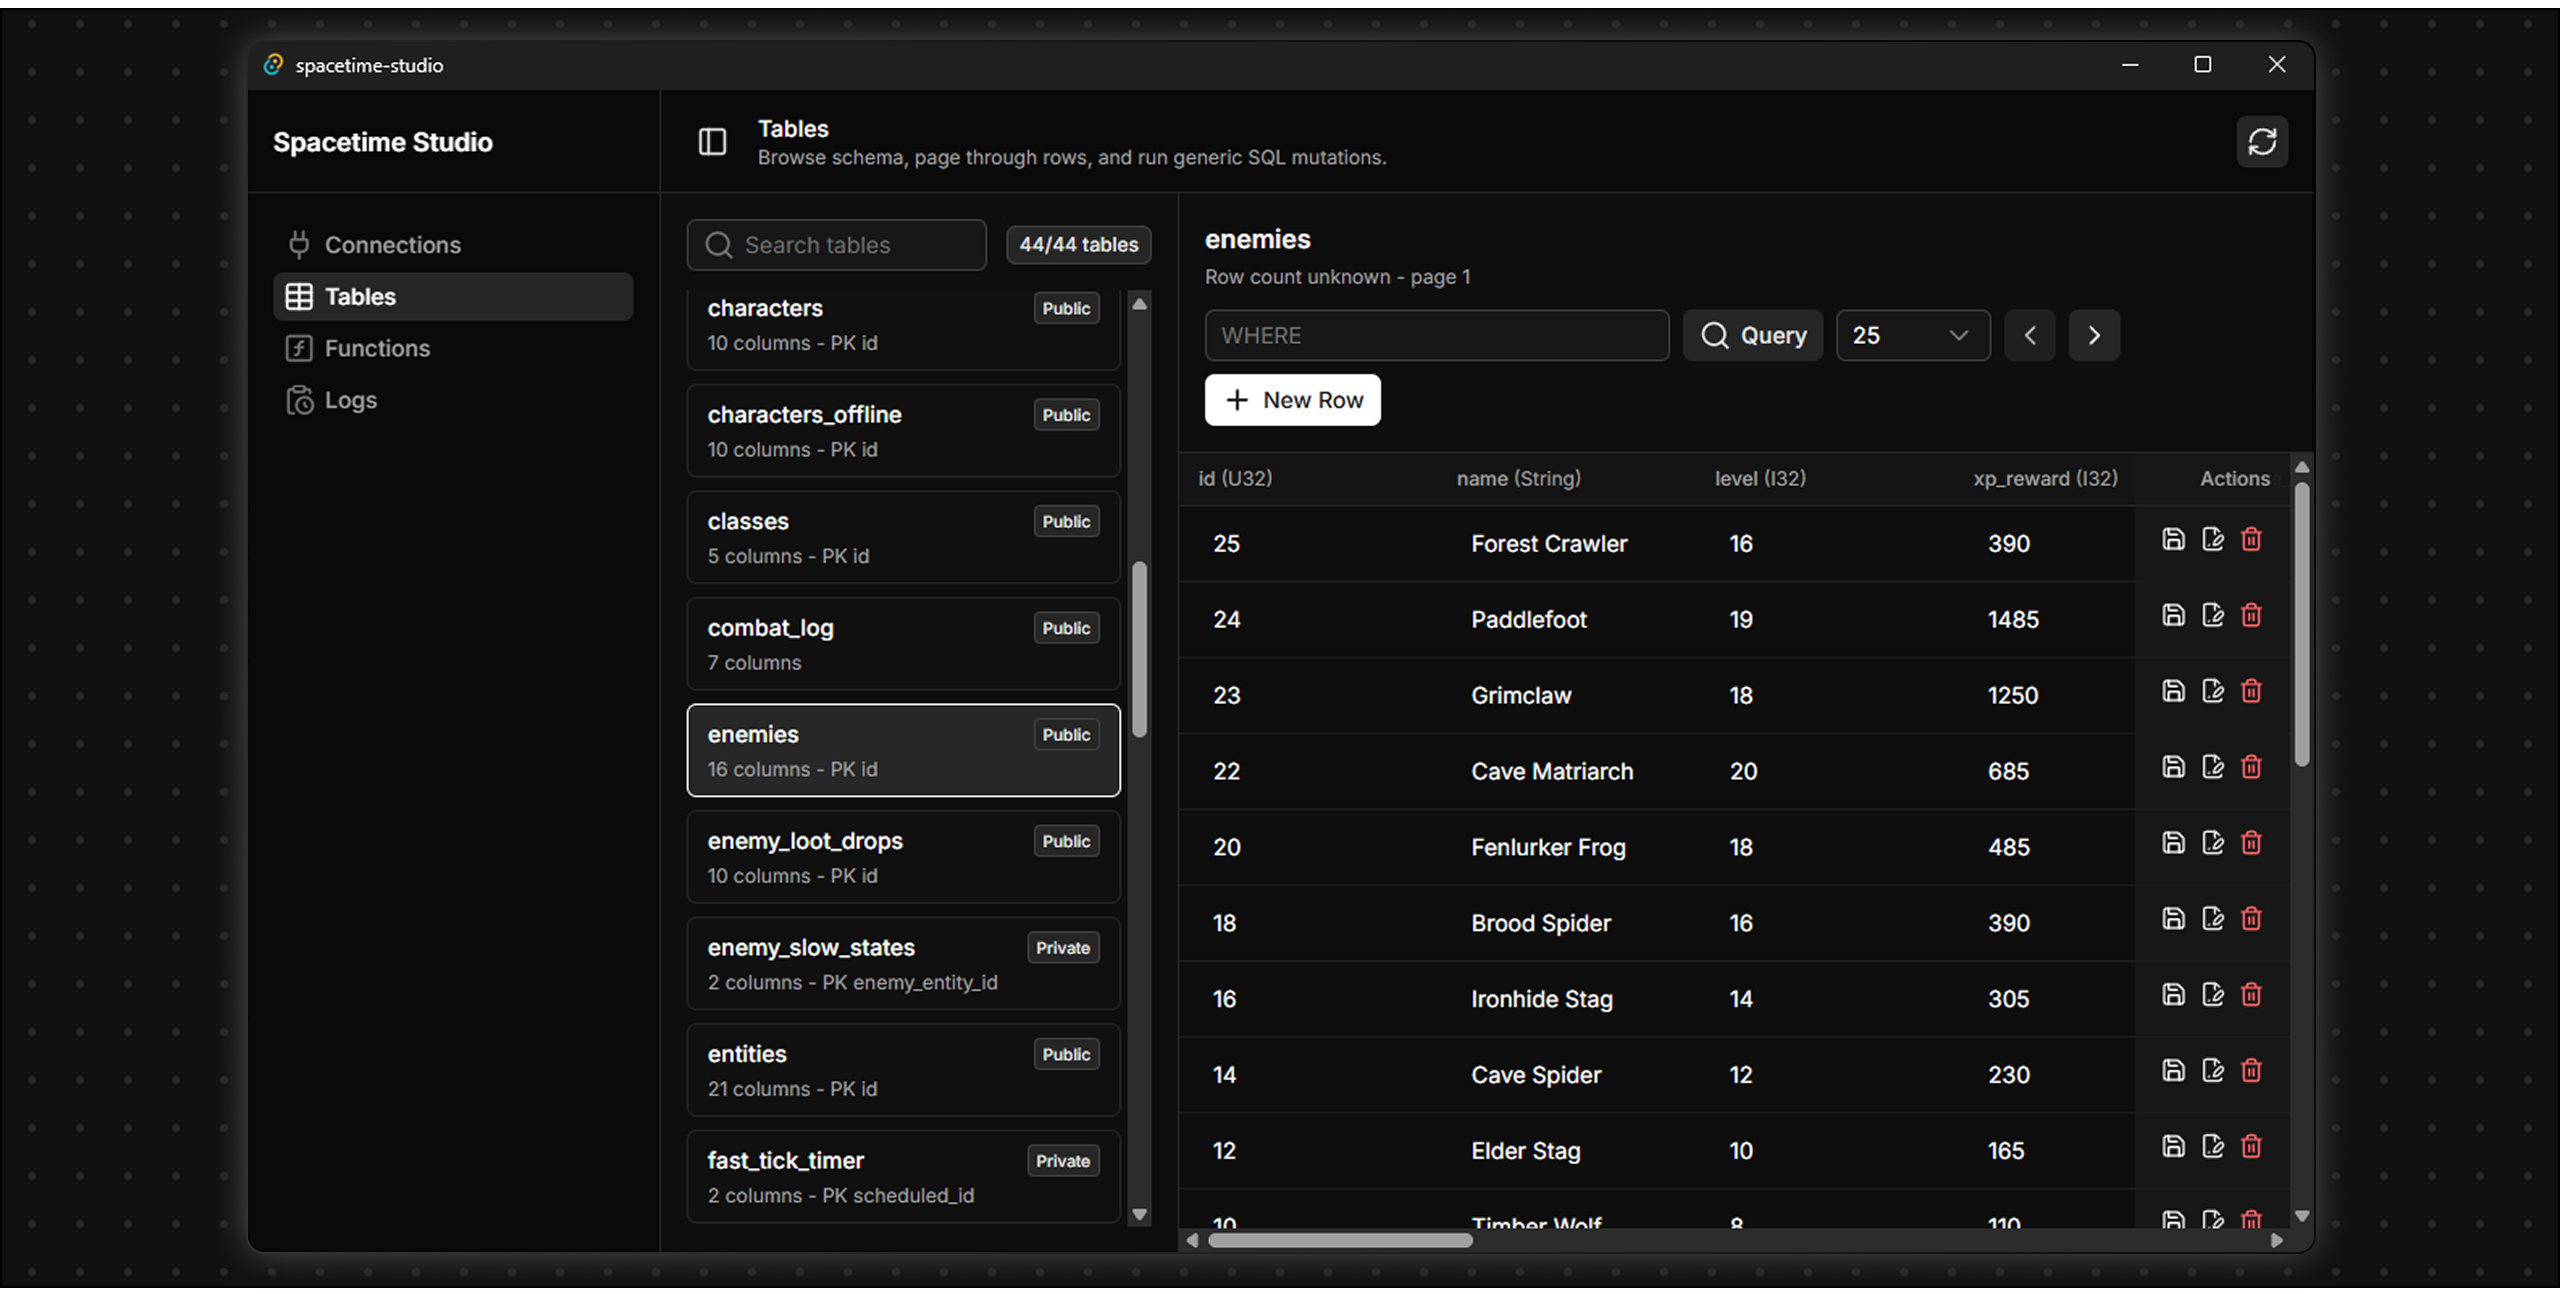
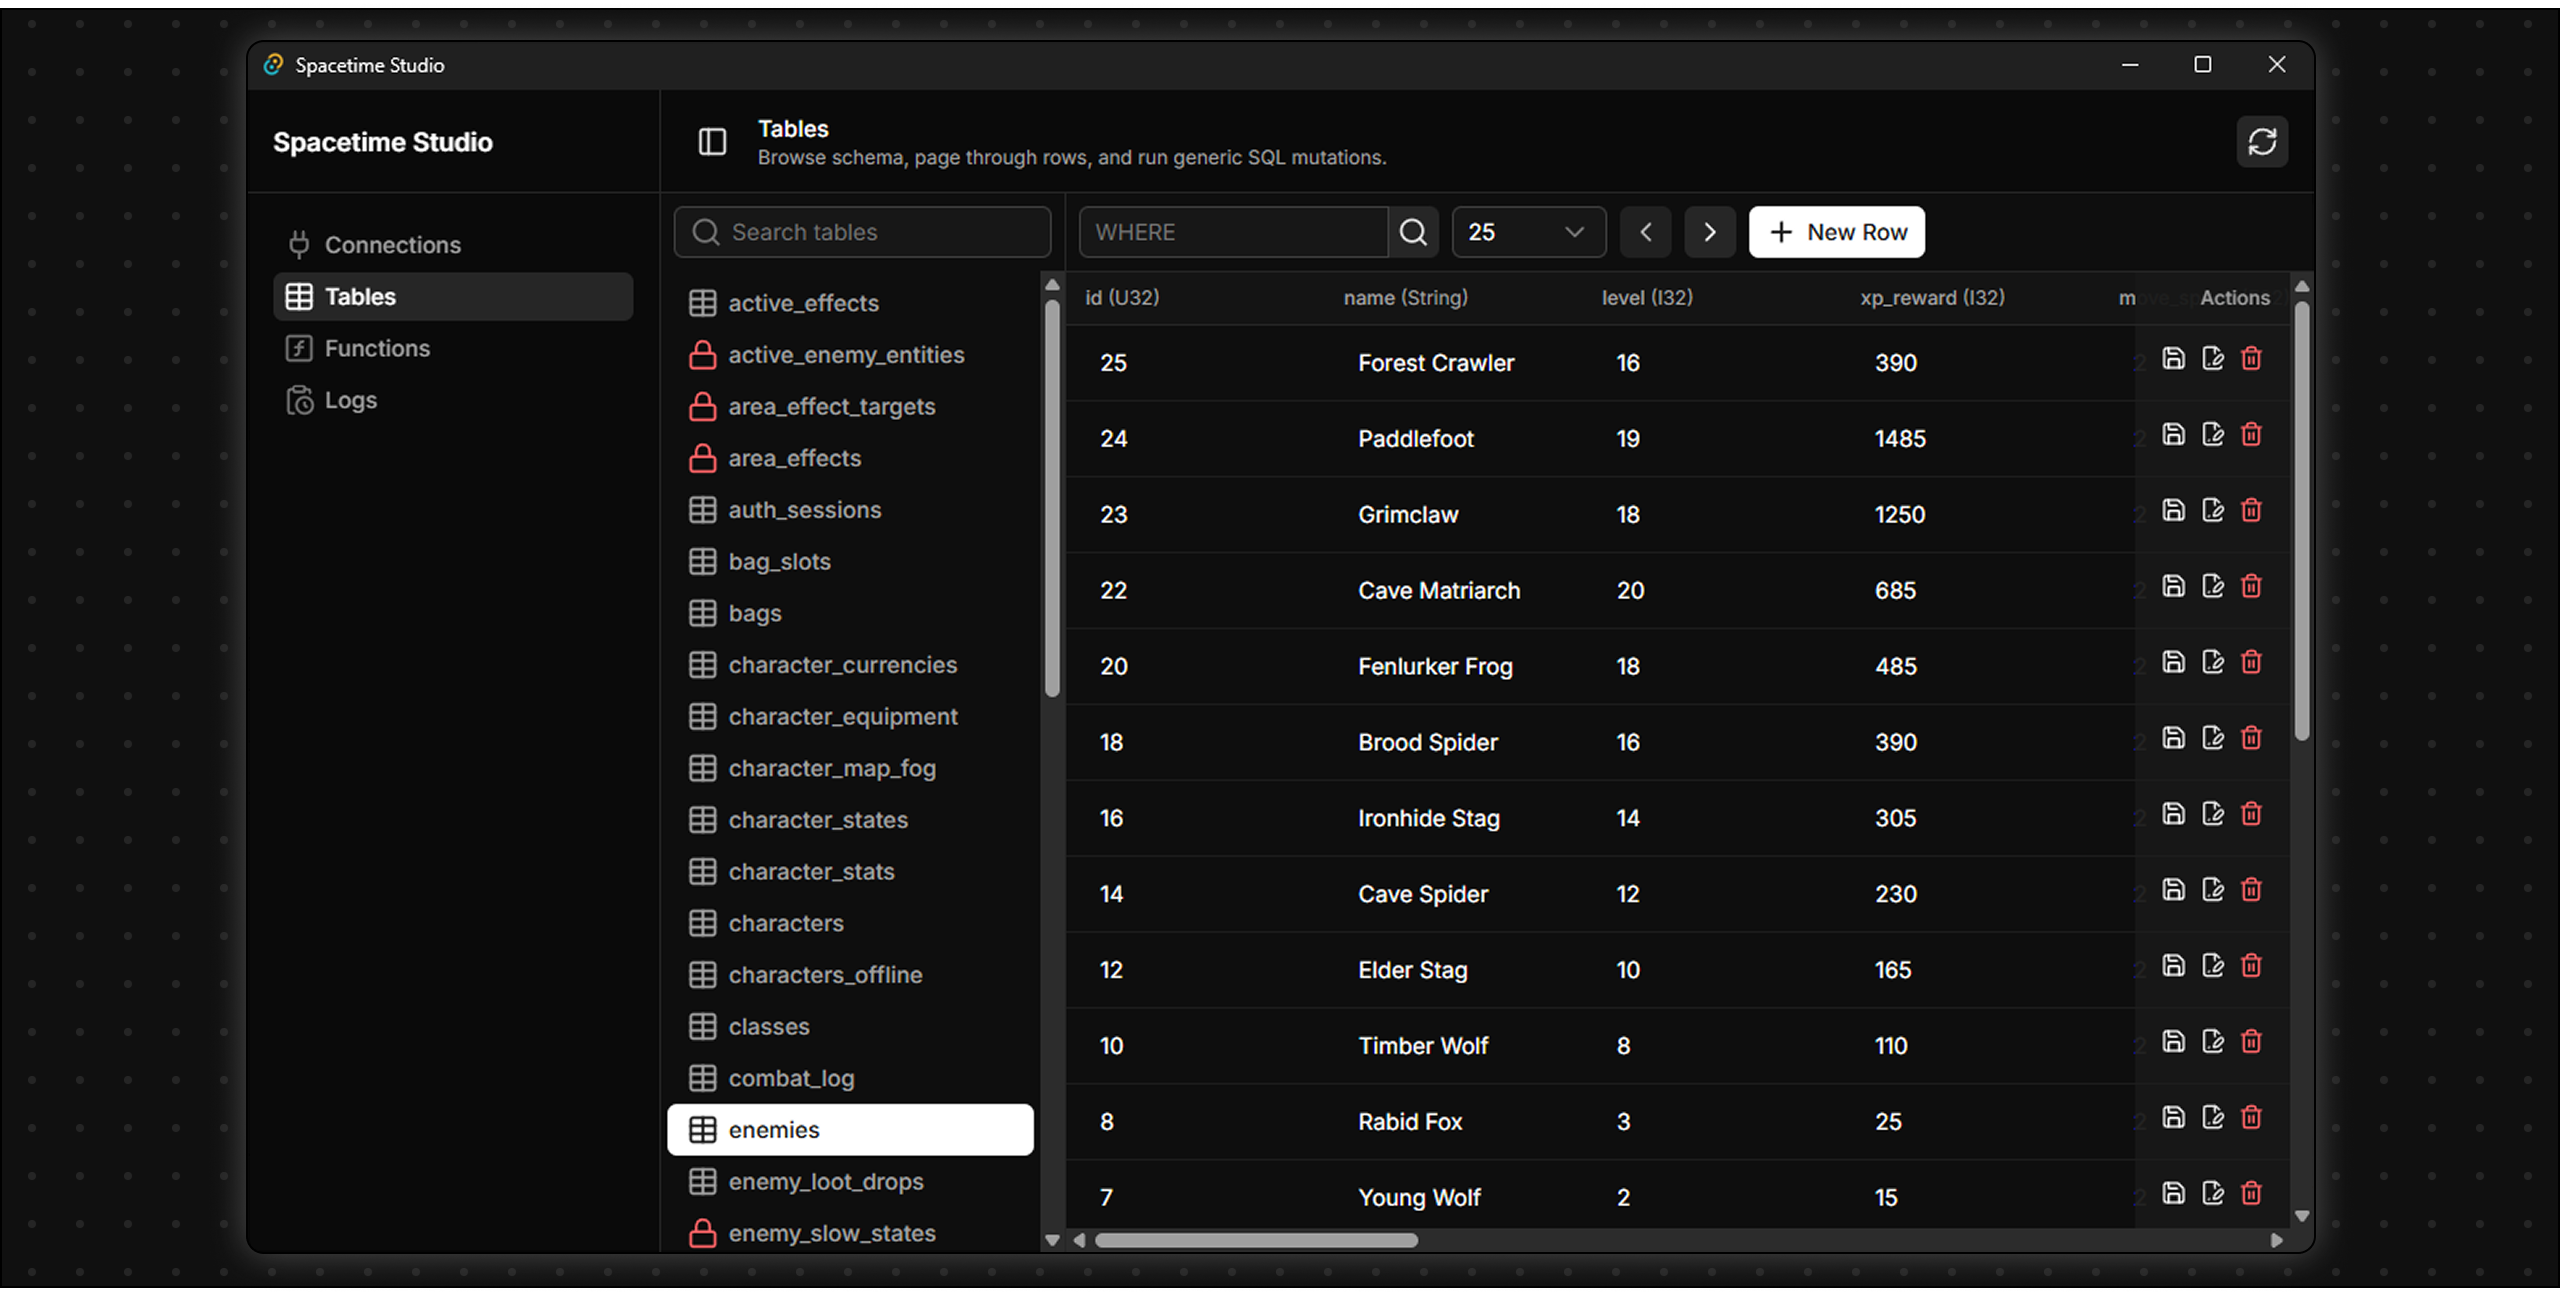
Use vertical UTabs for table list and UI tweaks
Replace the handwritten table list with a vertical UTabs component driven by a new tableItems computed array (includes icons and styling for private tables). Adjust sidebar layout and sizes (grid column widths, input widths, header padding), remove the table count badge, and wrap the WHERE input + button in a UFieldGroup for tighter spacing. Also update tauri config: bump version to 0.2.1 and change window title to "Spacetime Studio". Screenshot asset was updated.

diff --git a/src/pages/tables.vue b/src/pages/tables.vue
@@ -1,4 +1,5 @@
 <script setup lang="ts">
+import type { TabsItem } from "@nuxt/ui";
 import { computed, onMounted, onUnmounted, ref, watch } from "vue";
 import {
   createRow,
@@ -48,6 +49,18 @@ const filteredTables = computed(() => {
     table.name.toLowerCase().includes(search),
   );
 });
+const tableItems = computed<TabsItem[]>(() =>
+  filteredTables.value.map((table) => {
+    const isPrivate = table.access.toLowerCase() === "private";
+
+    return {
+      label: table.name,
+      value: table.name,
+      icon: isPrivate ? "i-lucide-lock" : "i-lucide-table",
+      ui: isPrivate ? { leadingIcon: "text-error" } : undefined,
+    };
+  }),
+);
 const selectedTable = computed<TableSummary | null>(
   () =>
     tables.value.find((table) => table.name === selectedTableName.value) ??
@@ -287,54 +300,37 @@ onUnmounted(() => {
       class="shrink-0"
     />
 
-    <div class="grid min-h-0 flex-1 xl:grid-cols-[320px_1fr]">
-      <aside class="flex min-h-0 flex-col bg-default/30 p-4">
-        <div class="mb-3 shrink-0 flex items-center justify-between gap-3">
+    <div class="grid min-h-0 flex-1 xl:grid-cols-[250px_1fr]">
+      <aside class="flex min-h-0 flex-col bg-default/30">
+        <div class="shrink-0 p-2">
           <UInput
             v-model="tableSearch"
             icon="i-lucide-search"
             placeholder="Search tables"
             aria-label="Search tables by name"
-            class="min-w-0 flex-1"
+            class="w-full"
           />
-          <UBadge color="neutral" variant="subtle"
-            >{{ filteredTables.length }}/{{ tables.length }} tables</UBadge
-          >
         </div>
-
-        <div class="min-h-0 flex-1 space-y-2 overflow-auto pr-1">
+        <div class="min-h-0 flex-1 overflow-y-auto">
           <p
-            v-if="!filteredTables.length"
-            class="rounded-md border border-default bg-default/20 px-3 py-2 text-sm text-muted"
+            v-if="!tableItems.length"
+            class="mx-2 rounded-md border border-default bg-default/20 px-3 py-2 text-sm text-muted"
           >
             No tables found.
           </p>
-          <button
-            v-for="table in filteredTables"
-            :key="table.name"
-            class="w-full rounded-md border px-3 py-2 text-left transition"
-            :class="
-              table.name === selectedTableName
-                ? 'border-primary bg-primary/10'
-                : 'border-default bg-default/20 hover:bg-default/50'
-            "
-            @click="selectedTableName = table.name"
-          >
-            <div class="flex items-center justify-between gap-3">
-              <span class="truncate text-sm font-medium text-highlighted">{{
-                table.name
-              }}</span>
-              <UBadge size="sm" color="neutral" variant="subtle">{{
-                table.access
-              }}</UBadge>
-            </div>
-            <p class="mt-1 truncate text-xs text-muted">
-              {{ table.columns.length }} columns
-              <span v-if="table.primaryKey.length">
-                - PK {{ table.primaryKey.join(", ") }}</span
-              >
-            </p>
-          </button>
+          <UTabs
+            v-else
+            v-model="selectedTableName"
+            orientation="vertical"
+            variant="pill"
+            :content="false"
+            :items="tableItems"
+            class="w-full"
+            :ui="{
+              list: 'items-start bg-opacity-0 w-full',
+              trigger: 'w-full',
+            }"
+          />
         </div>
       </aside>
 
@@ -342,9 +338,9 @@ onUnmounted(() => {
         class="min-h-0 min-w-0 flex flex-col border-l border-default bg-default/30"
       >
         <div
-          class="shrink-0 flex flex-wrap items-center justify-between gap-3 border-b border-default p-4"
+          class="shrink-0 flex flex-wrap items-center justify-between gap-3 border-b border-default p-2"
         >
-          <div class="min-w-0">
+          <!-- <div class="min-w-0">
             <h2 class="truncate text-base font-semibold text-highlighted">
               {{ selectedTableName || "No table selected" }}
             </h2>
@@ -356,26 +352,26 @@ onUnmounted(() => {
               }}
               - page {{ page + 1 }}
             </p>
-          </div>
+          </div> -->
           <form
             class="flex flex-wrap items-center gap-2"
             @submit.prevent="submitWhere"
           >
-            <UInput
-              v-model="whereSql"
-              placeholder="WHERE"
-              class="w-52 sm:w-72"
-              aria-label="WHERE query"
-            />
-            <UButton
-              icon="i-lucide-search"
-              color="neutral"
-              variant="soft"
-              type="submit"
-              :loading="loadingRows"
-            >
-              Query
-            </UButton>
+            <UFieldGroup>
+              <UInput
+                v-model="whereSql"
+                placeholder="WHERE"
+                class="w-32 sm:w-48"
+                aria-label="WHERE query"
+              />
+              <UButton
+                icon="i-lucide-search"
+                color="neutral"
+                variant="soft"
+                type="submit"
+                :loading="loadingRows"
+              />
+            </UFieldGroup>
             <USelect
               v-model="pageSize"
               :items="[10, 25, 50, 100]"